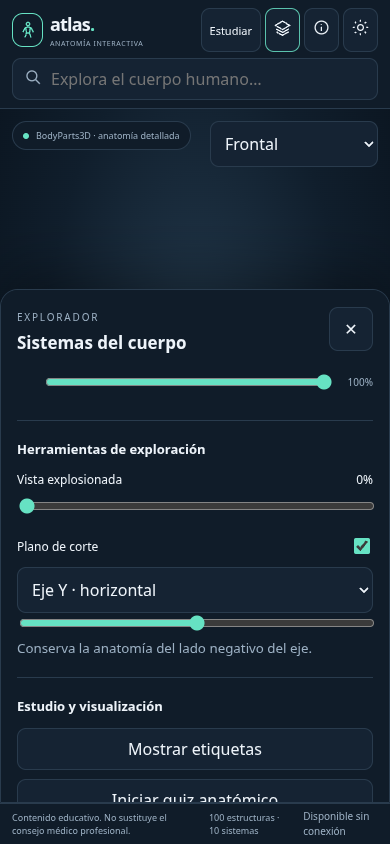
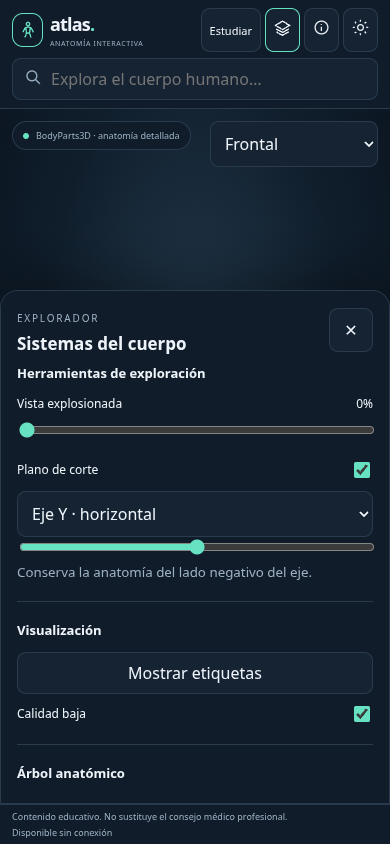
Organizar exploración 3D, estudio y progreso en menús separados

diff --git a/sw.js b/sw.js
@@ -1,5 +1,5 @@
-const VERSION="ba8b62351e1e1b27";
-const ARCHIVOS=["./assets/atlas-mesh.bin", "./assets/icons/atlas-180.png", "./assets/icons/atlas-192.png", "./assets/icons/atlas-512.png", "./assets/icons/atlas.svg", "./css/base.css", "./css/estudio-extra.css", "./css/estudio.css", "./css/layout.css", "./css/movil.css", "./css/paneles.css", "./css/responsive.css", "./css/temas.css", "./css/visor.css", "./data/autoevaluacion.json", "./data/banco-urinario.json", "./data/catalogo.json", "./data/epitelios.json", "./data/fuente.json", "./data/mesh-manifest.json", "./data/modelos.json", "./data/observaciones.json", "./data/orden-urinario.json", "./data/regiones.json", "./data/secciones.json", "./data/sistemas.json", "./index.html", "./js/core/almacenamiento.js", "./js/core/aplicacion.js", "./js/core/camara.js", "./js/core/datos.js", "./js/core/escena.js", "./js/core/estado.js", "./js/core/eventos.js", "./js/core/imagenes-db.js", "./js/core/pwa.js", "./js/core/recursos.js", "./js/core/render.js", "./js/estudio/auto.js", "./js/estudio/bancos.js", "./js/estudio/comparar.js", "./js/estudio/epitelios.js", "./js/estudio/errores.js", "./js/estudio/esquemas-svg.js", "./js/estudio/estadisticas.js", "./js/estudio/examen.js", "./js/estudio/extra-store.js", "./js/estudio/filtros.js", "./js/estudio/fisiologia.js", "./js/estudio/flash.js", "./js/estudio/herramientas.js", "./js/estudio/histologia.js", "./js/estudio/importador.js", "./js/estudio/inicio.js", "./js/estudio/intercambio.js", "./js/estudio/leitner.js", "./js/estudio/motor-preguntas.js", "./js/estudio/nefrona.js", "./js/estudio/notas.js", "./js/estudio/oclusion.js", "./js/estudio/panel.js", "./js/estudio/practico.js", "./js/estudio/progreso.js", "./js/estudio/quiz.js", "./js/estudio/ruta.js", "./js/estudio/sesiones.js", "./js/estudio/sm2.js", "./js/estudio/transferencias.js", "./js/main.js", "./js/modelo/detalle-urinario.js", "./js/modelo/fisiologia.js", "./js/modelo/integradas.js", "./js/modelo/loader-gltf.js", "./js/modelo/loader-mallas.js", "./js/modelo/materiales.js", "./js/modelo/partes.js", "./js/modelo/primitivas.js", "./js/modelo/procedural.js", "./js/modelo/recorrido.js", "./js/modelo/sistemas/circulatorio-base.js", "./js/modelo/sistemas/digestivo-base.js", "./js/modelo/sistemas/endocrino-base.js", "./js/modelo/sistemas/esqueletico-base.js", "./js/modelo/sistemas/linfatico-base.js", "./js/modelo/sistemas/muscular-base.js", "./js/modelo/sistemas/nervioso-base.js", "./js/modelo/sistemas/piel-base.js", "./js/modelo/sistemas/respiratorio-base.js", "./js/modelo/sistemas/urinario-base.js", "./js/modelo/sistemas/urinario.js", "./js/plugins/registro.js", "./js/ui/arbol.js", "./js/ui/avisos.js", "./js/ui/buscador.js", "./js/ui/capas.js", "./js/ui/controles.js", "./js/ui/etiquetas.js", "./js/ui/informacion.js", "./js/ui/paneles.js", "./js/ui/punteros.js", "./js/ui/quiz-anatomico.js", "./js/ui/seleccion.js", "./js/ui/tema.js", "./manifest.webmanifest", "./vendor/three/LICENSE", "./vendor/three/VERSION", "./vendor/three/build/three.core.js", "./vendor/three/build/three.module.js", "./vendor/three/examples/jsm/controls/OrbitControls.js", "./vendor/three/examples/jsm/loaders/GLTFLoader.js", "./vendor/three/examples/jsm/postprocessing/EffectComposer.js", "./vendor/three/examples/jsm/postprocessing/MaskPass.js", "./vendor/three/examples/jsm/postprocessing/OutlinePass.js", "./vendor/three/examples/jsm/postprocessing/OutputPass.js", "./vendor/three/examples/jsm/postprocessing/Pass.js", "./vendor/three/examples/jsm/postprocessing/RenderPass.js", "./vendor/three/examples/jsm/postprocessing/ShaderPass.js", "./vendor/three/examples/jsm/shaders/CopyShader.js", "./vendor/three/examples/jsm/shaders/OutputShader.js", "./vendor/three/examples/jsm/utils/BufferGeometryUtils.js"];
+const VERSION="70ac634f56610410";
+const ARCHIVOS=["./assets/atlas-mesh.bin", "./assets/icons/atlas-180.png", "./assets/icons/atlas-192.png", "./assets/icons/atlas-512.png", "./assets/icons/atlas.svg", "./css/base.css", "./css/estudio-extra.css", "./css/estudio.css", "./css/layout.css", "./css/movil.css", "./css/paneles.css", "./css/responsive.css", "./css/temas.css", "./css/visor.css", "./data/autoevaluacion.json", "./data/banco-urinario.json", "./data/catalogo.json", "./data/epitelios.json", "./data/fuente.json", "./data/mesh-manifest.json", "./data/modelos.json", "./data/observaciones.json", "./data/orden-urinario.json", "./data/regiones.json", "./data/secciones.json", "./data/sistemas.json", "./index.html", "./js/core/almacenamiento.js", "./js/core/aplicacion.js", "./js/core/camara.js", "./js/core/datos.js", "./js/core/escena.js", "./js/core/estado.js", "./js/core/eventos.js", "./js/core/imagenes-db.js", "./js/core/pwa.js", "./js/core/recursos.js", "./js/core/render.js", "./js/estudio/auto.js", "./js/estudio/bancos.js", "./js/estudio/comparar.js", "./js/estudio/epitelios.js", "./js/estudio/errores.js", "./js/estudio/esquemas-svg.js", "./js/estudio/estadisticas.js", "./js/estudio/examen.js", "./js/estudio/extra-store.js", "./js/estudio/filtros.js", "./js/estudio/fisiologia.js", "./js/estudio/flash.js", "./js/estudio/herramientas.js", "./js/estudio/histologia.js", "./js/estudio/importador.js", "./js/estudio/inicio.js", "./js/estudio/intercambio.js", "./js/estudio/leitner.js", "./js/estudio/menu.js", "./js/estudio/motor-preguntas.js", "./js/estudio/nefrona.js", "./js/estudio/notas.js", "./js/estudio/oclusion.js", "./js/estudio/panel.js", "./js/estudio/practico.js", "./js/estudio/progreso.js", "./js/estudio/quiz.js", "./js/estudio/ruta.js", "./js/estudio/sesiones.js", "./js/estudio/sm2.js", "./js/estudio/transferencias.js", "./js/main.js", "./js/modelo/detalle-urinario.js", "./js/modelo/fisiologia.js", "./js/modelo/integradas.js", "./js/modelo/loader-gltf.js", "./js/modelo/loader-mallas.js", "./js/modelo/materiales.js", "./js/modelo/partes.js", "./js/modelo/primitivas.js", "./js/modelo/procedural.js", "./js/modelo/recorrido.js", "./js/modelo/sistemas/circulatorio-base.js", "./js/modelo/sistemas/digestivo-base.js", "./js/modelo/sistemas/endocrino-base.js", "./js/modelo/sistemas/esqueletico-base.js", "./js/modelo/sistemas/linfatico-base.js", "./js/modelo/sistemas/muscular-base.js", "./js/modelo/sistemas/nervioso-base.js", "./js/modelo/sistemas/piel-base.js", "./js/modelo/sistemas/respiratorio-base.js", "./js/modelo/sistemas/urinario-base.js", "./js/modelo/sistemas/urinario.js", "./js/plugins/registro.js", "./js/ui/arbol.js", "./js/ui/avisos.js", "./js/ui/buscador.js", "./js/ui/capas.js", "./js/ui/controles.js", "./js/ui/etiquetas.js", "./js/ui/informacion.js", "./js/ui/paneles.js", "./js/ui/punteros.js", "./js/ui/quiz-anatomico.js", "./js/ui/seleccion.js", "./js/ui/tema.js", "./manifest.webmanifest", "./vendor/three/LICENSE", "./vendor/three/VERSION", "./vendor/three/build/three.core.js", "./vendor/three/build/three.module.js", "./vendor/three/examples/jsm/controls/OrbitControls.js", "./vendor/three/examples/jsm/loaders/GLTFLoader.js", "./vendor/three/examples/jsm/postprocessing/EffectComposer.js", "./vendor/three/examples/jsm/postprocessing/MaskPass.js", "./vendor/three/examples/jsm/postprocessing/OutlinePass.js", "./vendor/three/examples/jsm/postprocessing/OutputPass.js", "./vendor/three/examples/jsm/postprocessing/Pass.js", "./vendor/three/examples/jsm/postprocessing/RenderPass.js", "./vendor/three/examples/jsm/postprocessing/ShaderPass.js", "./vendor/three/examples/jsm/shaders/CopyShader.js", "./vendor/three/examples/jsm/shaders/OutputShader.js", "./vendor/three/examples/jsm/utils/BufferGeometryUtils.js"];
 
 const PREFIJO='atlas-'+new URL(self.registration.scope).pathname+'-',CACHE=PREFIJO+VERSION;
 self.addEventListener('install',event=>event.waitUntil((async()=>{const cache=await caches.open(CACHE);await cache.addAll(ARCHIVOS);})()));

diff --git a/js/estudio/panel.js b/js/estudio/panel.js
@@ -1,3 +1,4 @@
+import {areas, areaDeModo, montarMenu} from "./menu.js";
 import * as registro from "../plugins/registro.js";
 import {inicio as extraido_inicio} from './inicio.js';
 import {configurarQuiz as extraido_configurarQuiz} from './quiz.js';
@@ -31,6 +32,9 @@ import {dibujoEpitelio as extraido_dibujoEpitelio} from './esquemas-svg.js';
 // Funciones extraídas con referencias explícitas al contexto compartido.
 export function iniciarEstudio(contextoModulo) {
 const contextoCompartido={
+  get area(){return area;},
+  montarMenu(){montarMenu(contextoCompartido,registro);},
+  cerrarPanel(){cerrar();},
   get titulo(){return titulo;},set titulo(v){titulo=v;},
   get contenido(){return contenido;},set contenido(v){contenido=v;},
   get mensaje(){return mensaje;},set mensaje(v){mensaje=v;},
@@ -92,29 +96,34 @@ const contextoCompartido={
         let progreso={tarjetas:{},errores:{},autoevaluacion:{},sesiones:[]},persistente=true;
         try{const x=JSON.parse(localStorage.getItem(clave)||"null");if(x&&typeof x==="object")for(const k of ["tarjetas","errores","autoevaluacion"])if(x[k]&&typeof x[k]==="object"&&!Array.isArray(x[k]))progreso[k]=x[k];if(Array.isArray(x?.sesiones))progreso.sesiones=x.sesiones.slice(-50);}catch{persistente=false;}
         function guardar(...args){return extraido_guardar(contextoCompartido,...args);}
+        let area="estudio";
         let modo="inicio",sesion=null,cronometro=null,flash=null,svgActivo=null,animacionSVG=null;
         let filtroSeccion="todas",filtroDificultad="todas",soloErrores=false;
         const panelEst=nodo("section",null,{id:"study-panel",class:"study-panel","aria-label":"Estudiar aparato urinario"});panelEst.hidden=true;
-        const cab=nodo("div",null,{class:"study-header"});cab.append(nodo("h2","Estudiar"),boton("Cerrar",cerrar,{"aria-label":"Cerrar panel Estudiar"}));
-        const navegacion=nodo("nav",null,{class:"study-nav","aria-label":"Modos de estudio"}),contenido=nodo("div",null,{class:"study-body",id:"study-content",tabindex:"-1"});
+        const cab=nodo("div",null,{class:"study-header"});cab.append(nodo("h2","Atlas · aprender"),boton("Cerrar",cerrar,{"aria-label":"Cerrar panel Estudiar"}));
+        const navegacion=nodo("nav",null,{class:"study-nav","aria-label":"Apartados del atlas"}),contenido=nodo("div",null,{class:"study-body",id:"study-content",tabindex:"-1"});
         panelEst.append(cab,navegacion,contenido);document.querySelector("main").append(panelEst);
         const abrir=boton("Estudiar",()=>{if(contextoModulo.vistaMovil.matches){contextoModulo.estadoPanel("left",false);contextoModulo.estadoPanel("right",false);}panelEst.hidden=false;abrir.setAttribute("aria-expanded","true");if(contextoModulo.estado.quiz.activo)contextoModulo.terminarQuiz();if(svgActivo)svgActivo.unpauseAnimations?.();registro[modo]?.reanudar?.();contenido.focus({preventScroll:true});},{id:"study-open","aria-expanded":"false","aria-controls":"study-panel"});
         document.querySelector(".header-actions").prepend(abrir);
-        const orden=["inicio","quiz","flash","ruta","nefrona","histologia","epitelios","comparar","auto","examen","errores","estadisticas","transferencias","importador","notas","oclusion","practico","herramientas","fisiologia"];
-        const prioridad=id=>orden.includes(id)?orden.indexOf(id):orden.length;
-        const tabs=Object.values(registro).sort((a,b)=>prioridad(a.id)-prioridad(b.id)).map(p=>[p.id,p.titulo]);
-        tabs.forEach(([id,label])=>navegacion.append(boton(label,()=>cambiarModo(id),{"data-mode":id,"aria-pressed":"false"})));
+        const volver=boton("← Volver al menú",()=>cambiarModo("inicio"),{class:"study-back"});
+        volver.hidden=true;panelEst.insertBefore(volver,contenido);
+        for(const [id,datos] of Object.entries(areas))navegacion.append(boton(datos.titulo,()=>cambiarModo("inicio",id),{"data-area":id,"aria-pressed":String(id===area)}));
+        function sincronizarMenu(){
+          navegacion.querySelectorAll("[data-area]").forEach(b=>b.setAttribute("aria-pressed",String(b.dataset.area===area)));
+          volver.hidden=modo==="inicio";
+          panelEst.dataset.activeMode=modo;
+        }
         function cerrar({devolverFoco=true}={}){registro[modo]?.pausar?.();panelEst.hidden=true;abrir.setAttribute("aria-expanded","false");svgActivo?.pauseAnimations?.();if(contextoModulo.urinario.flujo){contextoModulo.urinario.pausa=true;if(contextoModulo.$("urine-play"))contextoModulo.$("urine-play").textContent="Continuar";}contextoModulo.solicitarRender();if(devolverFoco)abrir.focus({preventScroll:true});}
-        function cambiarModo(nuevo){
+        function cambiarModo(nuevo,nuevaArea){
           if(sesion&&!sesion.terminada){finalizarSesion("Sesión interrumpida al cambiar de modo");return;}
           if(modo==="flash"&&flash?.vistas){resumenFlash();return;}
           svgActivo?.pauseAnimations?.();svgActivo=null;animacionSVG=null;
           if(modo==="ruta"){contextoModulo.urinario.flujo=false;contextoModulo.particulasOrina.visible=false;contextoModulo.urinario.callback=null;contextoModulo.solicitarRender();}
           if(modo==="comparar"){contextoModulo.urinario.comparar=false;contextoModulo.aplicarEstado();}
           registro[modo]?.desmontar();
-          modo=nuevo;limpiar(contenido);navegacion.querySelectorAll("button").forEach(b=>b.setAttribute("aria-pressed",String(b.dataset.mode===modo)));
+          modo=nuevo;area=nuevaArea||areaDeModo(nuevo)||area;limpiar(contenido);sincronizarMenu();
           registro[modo].montar(contextoCompartido);
-          contenido.scrollTop=0;
+          contenido.scrollTop=0;contenido.focus({preventScroll:true});
         }
         function faltaBanco(){if(contextoModulo.BANCO.length)return false;contenido.append(mensaje("Pendiente del DOCX: este modo necesita las preguntas y respuestas exactas de Cuestionario_Aparato_Urinario_Laboratorio_11.docx. No se han creado preguntas de sustitución.","study-alert"));return true;}
         function titulo(texto){contenido.append(nodo("h3",texto));}

diff --git a/js/estudio/menu.js b/js/estudio/menu.js
@@ -1,0 +1,57 @@
+// Navegación por objetivos: las actividades conservan sus propios ciclos de vida.
+export const areas={
+ exploracion:{titulo:'Explorar 3D',descripcion:'Observa las estructuras y comprende cómo se relacionan.',grupos:[
+  ['Anatomía en movimiento',['ruta','fisiologia','comparar']],
+  ['Herramientas del visor',['herramientas']]]},
+ estudio:{titulo:'Estudiar',descripcion:'Elige cómo quieres practicar hoy. Una actividad a la vez.',grupos:[
+  ['Practicar y recordar',['quiz','flash','anatomico']],
+  ['Preparar el examen',['examen','practico']],
+  ['Histología y esquemas',['nefrona','histologia','epitelios','oclusion']]]},
+ progreso:{titulo:'Mi progreso',descripcion:'Revisa tus resultados y organiza tu material personal.',grupos:[
+  ['Mi aprendizaje',['estadisticas','errores','auto']],
+  ['Mi material',['notas','importador','transferencias']]]}
+};
+const descripciones={
+ quiz:'Preguntas del banco con retroalimentación.',flash:'Tarjetas con repetición espaciada.',
+ anatomico:'Reconoce las partes señaladas en el cuerpo 3D.',examen:'Simulacro cronometrado con resultados al terminar.',
+ practico:'Escribe el nombre de la estructura marcada en 3D.',nefrona:'Explora sus partes y procesos en un esquema interactivo.',
+ histologia:'Compara tejidos y practica su identificación.',epitelios:'Consulta la tabla o tapa las respuestas para repasar.',
+ oclusion:'Estudia tus láminas ocultando sus etiquetas.',ruta:'Sigue paso a paso el trayecto de la orina.',
+ fisiologia:'Observa el movimiento del uréter y la vejiga.',comparar:'Compara la anatomía masculina y femenina.',
+ herramientas:'Enfoque, pantalla completa y lectura en voz alta.',estadisticas:'Consulta tus aciertos, racha y metas.',
+ errores:'Refuerza las preguntas que necesitan más repaso.',auto:'Comprueba qué temas ya dominas.',
+ notas:'Tus apuntes, pistas y estructuras para repasar.',importador:'Añade preguntas de otros laboratorios.',
+ transferencias:'Guarda o recupera tus bancos y tu progreso.'
+};
+export function areaDeModo(id){return Object.keys(areas).find(a=>areas[a].grupos.some(([,ids])=>ids.includes(id)));}
+export function montarMenu(ctx,registro){
+ const {nodo,boton,contenido}=ctx,area=areas[ctx.area];
+ const intro=nodo('div',null,{class:'study-menu-intro'});
+ intro.append(nodo('span','TU ESPACIO DE APRENDIZAJE',{class:'study-eyebrow'}),nodo('h3',area.titulo),nodo('p',area.descripcion));contenido.append(intro);
+ if(ctx.area==='exploracion')acciones3D(ctx);
+ for(const [titulo,ids] of area.grupos){
+  const seccion=nodo('section',null,{class:'study-menu-group'});seccion.append(nodo('h4',titulo));
+  const grid=nodo('div',null,{class:'study-menu-grid'});
+  for(const id of ids){
+   const nombre=id==='anatomico'?'Quiz anatómico':registro[id]?.titulo;
+   if(!nombre)continue;
+   const tarjeta=boton(null,()=>{
+    if(id==='anatomico'){
+     ctx.cerrarPanel();ctx.contextoModulo.$('quiz-toggle').click();
+     ctx.contextoModulo.$('quiz-options')?.querySelector('button')?.focus({preventScroll:true});
+    }else ctx.cambiarModo(id);
+   },{class:'study-menu-card','data-mode':id});
+   tarjeta.append(nodo('strong',nombre),nodo('span',descripciones[id]),nodo('span','Abrir →',{class:'study-card-link','aria-hidden':'true'}));grid.append(tarjeta);
+  }
+  seccion.append(grid);contenido.append(seccion);
+ }
+ // Los plugins añadidos al registro siguen siendo accesibles sin editar el menú.
+ const otros=Object.values(registro).filter(p=>p.id!=='inicio'&&!areaDeModo(p.id));
+ if(ctx.area==='estudio'&&otros.length){const grupo=nodo('section',null,{class:'study-menu-group'});grupo.append(nodo('h4','Más actividades'));for(const p of otros)grupo.append(boton(p.titulo,()=>ctx.cambiarModo(p.id),{'data-mode':p.id}));contenido.append(grupo);}
+}
+function acciones3D(contextoModulo){
+          const acciones=contextoModulo.nodo("div",null,{class:"study-flex"});acciones.append(contextoModulo.boton("Explorar aparato urinario",()=>contextoModulo.contextoModulo.estudiarUrinario()),contextoModulo.boton("Ver interior del riñón",()=>{contextoModulo.contextoModulo.estudiarUrinario();contextoModulo.contextoModulo.seleccionar("rinon_derecho");const c=contextoModulo.contextoModulo.puntoParte("rinon_derecho");contextoModulo.contextoModulo.$("clip-enabled").checked=true;contextoModulo.contextoModulo.$("clip-axis").value="z";contextoModulo.contextoModulo.$("clip-position").value=100*(c.z-(contextoModulo.contextoModulo.cajaCuerpo.min.z-.1))/(contextoModulo.contextoModulo.cajaCuerpo.max.z-contextoModulo.contextoModulo.cajaCuerpo.min.z+.2);contextoModulo.contextoModulo.actualizarCorte();}),contextoModulo.boton("Volver al cuerpo completo",()=>{contextoModulo.contextoModulo.urinario.solo=false;contextoModulo.contextoModulo.urinario.comparar=false;contextoModulo.contextoModulo.restaurar();contextoModulo.contextoModulo.vista("front");}));contextoModulo.contenido.append(acciones);
+
+          acciones.className="study-explore-actions";
+          acciones.querySelectorAll("button").forEach(b=>b.addEventListener("click",()=>contextoModulo.cerrarPanel()));
+}

diff --git a/js/estudio/inicio.js b/js/estudio/inicio.js
@@ -1,10 +1,8 @@
 // Funciones extraídas con referencias explícitas al contexto compartido.
 export function inicio(contextoModulo){
-          contextoModulo.titulo("Aparato urinario · laboratorio 11");
+          contextoModulo.montarMenu();
           contextoModulo.contenido.append(contextoModulo.mensaje(contextoModulo.contextoModulo.FUENTE_DOCX?"Fuente: "+contextoModulo.contextoModulo.FUENTE_DOCX:"Falta adjuntar el DOCX para completar el banco y la autoevaluación.",contextoModulo.contextoModulo.FUENTE_DOCX?"study-status":"study-alert"));
           contextoModulo.contenido.append(contextoModulo.mensaje(contextoModulo.contextoModulo.BANCO.length+" preguntas del documento · 7 secciones · progreso local"));
-          const acciones=contextoModulo.nodo("div",null,{class:"study-flex"});acciones.append(contextoModulo.boton("Explorar aparato urinario",()=>contextoModulo.contextoModulo.estudiarUrinario()),contextoModulo.boton("Ver interior del riñón",()=>{contextoModulo.contextoModulo.estudiarUrinario();contextoModulo.contextoModulo.seleccionar("rinon_derecho");const c=contextoModulo.contextoModulo.puntoParte("rinon_derecho");contextoModulo.contextoModulo.$("clip-enabled").checked=true;contextoModulo.contextoModulo.$("clip-axis").value="z";contextoModulo.contextoModulo.$("clip-position").value=100*(c.z-(contextoModulo.contextoModulo.cajaCuerpo.min.z-.1))/(contextoModulo.contextoModulo.cajaCuerpo.max.z-contextoModulo.contextoModulo.cajaCuerpo.min.z+.2);contextoModulo.contextoModulo.actualizarCorte();}),contextoModulo.boton("Volver al cuerpo completo",()=>{contextoModulo.contextoModulo.urinario.solo=false;contextoModulo.contextoModulo.urinario.comparar=false;contextoModulo.contextoModulo.restaurar();contextoModulo.contextoModulo.vista("front");}));contextoModulo.contenido.append(acciones);
-          contextoModulo.contenido.append(contextoModulo.nodo("p","Explora el riñón en corte, sigue el recorrido de la orina y compara los epitelios. Los esquemas complementarios están identificados como representaciones didácticas."));
           const card=contextoModulo.nodo("div",null,{class:"study-card"});card.append(contextoModulo.nodo("strong","Atajos de estudio"),contextoModulo.nodo("p","1–4: elegir opción · Enter: siguiente · Espacio: voltear flashcard · Esc: cerrar Estudiar."));contextoModulo.contenido.append(card);
           if(contextoModulo.contextoModulo.OBSERVACIONES_DOCX.length){const notas=contextoModulo.nodo("details",null,{class:"study-card"});notas.append(contextoModulo.nodo("summary","Notas sobre la fuente y los esquemas"));contextoModulo.contextoModulo.OBSERVACIONES_DOCX.forEach(t=>notas.append(contextoModulo.nodo("p",t)));contextoModulo.contenido.append(notas);}
           if(!contextoModulo.persistente)contextoModulo.contenido.append(contextoModulo.mensaje("El navegador no permite guardar el progreso. Puedes estudiar durante esta sesión.","study-alert"));

diff --git a/css/estudio-extra.css b/css/estudio-extra.css
@@ -12,3 +12,35 @@
 #salir-enfoque {position:fixed;right:12px;top:125px;z-index:80;box-shadow:var(--shadow);min-height:44px;}
 .pwa-status {font-size:10px;margin-left:auto;}
 @media(max-width:850px){footer{flex-wrap:wrap;gap:2px;}footer>span:nth-child(2){display:none;}footer .pwa-status{flex-basis:100%;margin-left:0;font-size:9px;}}
+
+/* Tres destinos estables sustituyen la fila de modos con desplazamiento lateral. */
+.study-panel{width:min(580px,100%);}
+.study-nav{display:grid;grid-template-columns:repeat(3,minmax(0,1fr));gap:6px;overflow:visible;touch-action:auto;padding:12px 16px;}
+.study-nav button{white-space:normal;min-height:44px;font-size:12px;padding:9px 5px;}
+.study-back{align-self:flex-start;margin:10px 18px 0;min-height:40px;font-size:12px;flex-shrink:0;}
+.study-menu-intro{margin:6px 0 24px;}
+.study-eyebrow{display:block;color:var(--muted);font-size:10px;letter-spacing:1.5px;margin-bottom:8px;}
+.study-menu-intro h3{font-size:25px;line-height:1.2;margin:0 0 10px;}
+.study-menu-intro p{color:var(--muted);margin:0;}
+.study-menu-group{margin:0 0 26px;}
+.study-menu-group h4{font-size:12px;margin:0 0 10px;color:var(--muted);font-weight:600;}
+.study-menu-grid{display:grid;grid-template-columns:repeat(2,minmax(0,1fr));gap:12px;}
+.study-menu-card{display:flex;flex-direction:column;text-align:left;gap:8px;padding:16px;min-width:0;line-height:1.5;border-radius:12px;}
+.study-menu-card strong{font-size:14px;}
+.study-menu-card>span{font-size:12px;color:var(--muted);}
+.study-menu-card .study-card-link{color:var(--accent);font-weight:600;font-size:11px;margin-top:auto;padding-top:5px;}
+.study-explore-actions{display:grid;gap:8px;margin-bottom:26px;}
+.study-explore-actions button{text-align:left;min-height:44px;}
+@media(max-width:850px){
+ .study-panel{width:100%;}
+ .study-nav{padding:10px 12px;}
+ .study-menu-grid{gap:10px;}
+ .study-menu-card{padding:12px;}
+ .study-back{margin:8px 15px 0;}
+ .study-panel.study-practico .study-back{margin-top:4px;min-height:36px;}
+}
+@media(max-width:360px){.study-menu-grid{grid-template-columns:1fr;}.study-header h2{font-size:15px;}}
+
+@media(max-width:850px) and (min-height:501px){
+ .study-panel[data-active-mode="ruta"],.study-panel[data-active-mode="comparar"],.study-panel[data-active-mode="fisiologia"]{height:52%;}
+}

diff --git a/index.html b/index.html
@@ -112,10 +112,10 @@
           </section>
 
           <section class="panel-section">
-            <h3>Estudio y visualización</h3>
+            <h3>Visualización</h3>
             <div class="stack">
               <button id="labels-toggle" aria-pressed="false">Mostrar etiquetas</button>
-              <button id="quiz-toggle" aria-pressed="false">Iniciar quiz anatómico</button>
+              <button id="quiz-toggle" hidden aria-pressed="false">Iniciar quiz anatómico</button>
               <label class="row" style="font-size:12px">
                 <span>Calidad baja</span><input id="low-quality" type="checkbox" style="flex:0 0 16px;width:16px;height:16px">
               </label>

diff --git a/pruebas/offline.py b/pruebas/offline.py
@@ -1,3 +1,4 @@
+from navegacion import abrir_modo
 import os
 URL=os.environ.get("ATLAS_TEST_URL","http://127.0.0.1:8000/atlas/")
 from pathlib import Path
@@ -11,8 +12,8 @@ with sync_playwright() as p:
  q=c.new_page();q.on('pageerror',lambda e:(errores.append(str(e)),print('JS',e,flush=True)));q.goto(URL);q.wait_for_function("document.getElementById('loading').hidden",timeout=70000)
  q.evaluate('navigator.serviceWorker.ready');q.wait_for_function('navigator.serviceWorker.controller!==null',timeout=60000)
  cache=q.evaluate("caches.keys().then(async keys=>({keys,archivos:(await (await caches.open(keys[0])).keys()).length}))");print('Caché:',cache,flush=True)
- c.set_offline(True);q.reload(wait_until='domcontentloaded');q.wait_for_function("document.getElementById('loading').hidden",timeout=70000);assert 'BodyParts3D' in q.locator('#model-status').inner_text();q.locator('#study-open').click();q.locator('[data-mode="nefrona"]').click();assert q.locator('#study-content svg').count();print('Recarga móvil sin red + mallas + nefrona: OK',flush=True);c.close()
+ c.set_offline(True);q.reload(wait_until='domcontentloaded');q.wait_for_function("document.getElementById('loading').hidden",timeout=70000);assert 'BodyParts3D' in q.locator('#model-status').inner_text();q.locator('#study-open').click();abrir_modo(q,"nefrona");assert q.locator('#study-content svg').count();print('Recarga móvil sin red + mallas + nefrona: OK',flush=True);c.close()
  c=b.new_context(viewport={'width':1000,'height':800},service_workers='block');c.route('https://fonts.googleapis.com/**',lambda r:r.fulfill(status=200,body='',content_type='text/css'));c.route('**/favicon.ico',lambda r:r.fulfill(status=204,body=''));c.add_init_script("Object.defineProperty(window,'localStorage',{get(){throw new DOMException('Bloqueado','SecurityError')}});Object.defineProperty(window,'indexedDB',{get(){throw new DOMException('Bloqueado','SecurityError')}});")
- q=c.new_page();q.on('pageerror',lambda e:(errores.append(str(e)),print('JS',e,flush=True)));q.goto(URL);q.wait_for_function("document.getElementById('loading').hidden",timeout=70000);q.locator('#study-open').click();q.locator('[data-mode="notas"]').click();q.get_by_label('Notas personales',exact=True).fill('Nota temporal');assert 'No se pudo guardar' in q.locator('#study-content').inner_text();q.locator('[data-mode="oclusion"]').click();q.wait_for_timeout(200);assert 'memoria temporal' in q.locator('#study-content').inner_text();print('Almacenamiento bloqueado: uso en memoria y avisos OK',flush=True);c.close();b.close()
+ q=c.new_page();q.on('pageerror',lambda e:(errores.append(str(e)),print('JS',e,flush=True)));q.goto(URL);q.wait_for_function("document.getElementById('loading').hidden",timeout=70000);q.locator('#study-open').click();abrir_modo(q,"notas");q.get_by_label('Notas personales',exact=True).fill('Nota temporal');assert 'No se pudo guardar' in q.locator('#study-content').inner_text();abrir_modo(q,"oclusion");q.wait_for_timeout(200);assert 'memoria temporal' in q.locator('#study-content').inner_text();print('Almacenamiento bloqueado: uso en memoria y avisos OK',flush=True);c.close();b.close()
 assert not errores,errores
 (out/'offline.json').write_text(json.dumps({'cache':cache,'offline':'OK','almacenamiento_bloqueado':'OK','errores':errores},ensure_ascii=False,indent=2))

diff --git a/pruebas/menu.py b/pruebas/menu.py
@@ -1,0 +1,40 @@
+import os
+from pathlib import Path
+from playwright.sync_api import sync_playwright
+URL=os.environ.get('ATLAS_TEST_URL','http://127.0.0.1:8000/atlas/')
+out=Path(__file__).resolve().parent/'resultados'
+out.mkdir(exist_ok=True)
+with sync_playwright() as p:
+ b=p.chromium.launch(executable_path='/usr/bin/chromium',headless=True,args=['--no-sandbox','--use-angle=swiftshader','--enable-unsafe-swiftshader'])
+ for width in [1440,390,320]:
+  c=b.new_context(viewport={'width':width,'height':900 if width>850 else 844},is_mobile=width<850,has_touch=width<850)
+  c.route('https://fonts.googleapis.com/**',lambda r:r.fulfill(status=200,body='',content_type='text/css'))
+  q=c.new_page();errors=[];q.on('pageerror',lambda e:errors.append(str(e)))
+  q.goto(URL);q.wait_for_function("document.getElementById('loading').hidden",timeout=90000)
+  q.locator('#study-open').click()
+  assert q.locator('[data-mode=quiz]').is_visible()
+  q.screenshot(path=str(out/f'menu-{width}.png'))
+  for area,ids in [('estudio',['quiz','flash','examen','practico','nefrona','histologia','epitelios','oclusion']),('exploracion',['ruta','fisiologia','comparar','herramientas']),('progreso',['estadisticas','errores','auto','notas','importador','transferencias'])]:
+   q.locator(f'[data-area={area}]').click()
+   for id in ids:
+    q.locator(f'[data-mode={id}]').click()
+    assert q.locator('.study-back').is_visible()
+    assert q.locator('#study-content').inner_text().strip()
+    q.locator('.study-back').click()
+    assert q.locator(f'[data-mode={id}]').is_visible()
+   assert q.evaluate('document.documentElement.scrollWidth<=innerWidth')
+  q.locator('[data-area=estudio]').click();q.locator('[data-mode=anatomico]').click()
+  assert q.locator('#study-panel').is_hidden()
+  assert q.locator('#quiz-options button').count()==4
+  q.locator('#quiz-options button').first.click();q.locator('#quiz-exit').click()
+  q.locator('#study-open').click();q.locator('[data-mode=quiz]').click();q.get_by_role('button',name='Comenzar',exact=True).click()
+  q.locator('[data-area=exploracion]').click()
+  assert 'Sesión interrumpida' in q.locator('#study-content').inner_text()
+  q.locator('[data-area=exploracion]').click();q.get_by_role('button',name='Ver interior del riñón',exact=True).click()
+  assert q.locator('#study-panel').is_hidden();assert q.locator('#clip-enabled').is_checked()
+  q.locator('#study-open').click();q.locator('[data-area=estudio]').click()
+  q.locator('#theme').click();q.screenshot(path=str(out/f'menu-claro-{width}.png'))
+  assert not errors,errors
+  print(width,'OK: 18 modos, quiz anatómico, navegación con sesión, corte renal y temas',flush=True)
+  c.close()
+ b.close()

diff --git a/pruebas/regresion.py b/pruebas/regresion.py
@@ -1,3 +1,4 @@
+from navegacion import abrir_modo
 import os
 URL=os.environ.get("ATLAS_TEST_URL","http://127.0.0.1:8000/atlas/")
 from pathlib import Path
@@ -36,11 +37,10 @@ with sync_playwright() as p:
   if mobile:q.locator('[data-close="left"]').click()
   q.locator('#restore').click()
   if mobile:q.locator('#toggle-left').click();q.wait_for_timeout(300)
-  q.locator('#quiz-toggle').click()
-  if mobile:q.locator('[data-close="left"]').click()
+  q.locator('#study-open').click();abrir_modo(q,"anatomico")
   assert q.locator('#quiz-options button').count()==4;q.locator('#quiz-options button').first.click();assert q.locator('#quiz-feedback').inner_text();q.locator('#quiz-exit').click()
-  q.locator('#study-open').click();q.locator('[data-mode="quiz"]').click();q.get_by_role('button',name='Comenzar',exact=True).click();q.wait_for_timeout(150);responder_banco(q);assert 'Respuesta del documento' in q.locator('#study-feedback').inner_text();q.get_by_role('button',name='Finalizar sesión',exact=True).click()
-  q.locator('[data-mode="flash"]').click();q.get_by_role('button',name='Estudiar tarjetas pendientes',exact=True).click();q.locator('#study-flash').click();assert q.locator('#flash-yes').is_enabled();q.locator('#flash-yes').click();q.get_by_role('button',name='Terminar',exact=True).click()
+  q.locator('#study-open').click();abrir_modo(q,"quiz");q.get_by_role('button',name='Comenzar',exact=True).click();q.wait_for_timeout(150);responder_banco(q);assert 'Respuesta del documento' in q.locator('#study-feedback').inner_text();q.get_by_role('button',name='Finalizar sesión',exact=True).click()
+  abrir_modo(q,"flash");q.get_by_role('button',name='Estudiar tarjetas pendientes',exact=True).click();q.locator('#study-flash').click();assert q.locator('#flash-yes').is_enabled();q.locator('#flash-yes').click();q.get_by_role('button',name='Terminar',exact=True).click()
   q.get_by_role('button',name='Cerrar panel Estudiar').click()
   q.locator('#theme').click();assert q.evaluate('document.documentElement.dataset.theme')=='light';q.locator('#theme').click();assert q.evaluate('document.documentElement.dataset.theme')=='dark'
   assert q.evaluate('document.documentElement.scrollWidth<=innerWidth')

diff --git a/pruebas/movil.py b/pruebas/movil.py
@@ -1,3 +1,4 @@
+from navegacion import abrir_modo
 import os
 URL=os.environ.get("ATLAS_TEST_URL","http://127.0.0.1:8000/atlas/")
 from pathlib import Path
@@ -7,7 +8,7 @@ out=Path(__file__).resolve().parent/'resultados';out.mkdir(exist_ok=True);errors
 with sync_playwright() as p:
  b=p.chromium.launch(executable_path='/usr/bin/chromium',args=['--no-sandbox','--use-angle=swiftshader','--enable-unsafe-swiftshader']);c=b.new_context(viewport={'width':390,'height':844},is_mobile=True,has_touch=True,service_workers='block');c.route('https://fonts.googleapis.com/**',lambda r:r.fulfill(status=200,body='',content_type='text/css'));q=c.new_page();q.on('pageerror',lambda e:(errors.append(str(e)),print(e,flush=True)));q.goto(URL);q.wait_for_function("document.getElementById('loading').hidden",timeout=70000);q.locator('#study-open').tap()
  for modo in ['estadisticas','transferencias','importador','notas','oclusion','practico','herramientas','fisiologia']:
-  q.locator('[data-mode="'+modo+'"]').tap();q.wait_for_timeout(100);assert q.locator('#study-content').inner_text();assert q.evaluate('document.documentElement.scrollWidth<=innerWidth');assert q.evaluate('document.querySelector("main").scrollTop===0')
+  abrir_modo(q,modo);q.wait_for_timeout(100);assert q.locator('#study-content').inner_text();assert q.evaluate('document.documentElement.scrollWidth<=innerWidth');assert q.evaluate('document.querySelector("main").scrollTop===0')
   if modo=='practico':
    q.get_by_role('button',name='Cerrar panel Estudiar').tap();q.locator('#study-open').tap();assert q.locator('#respuesta-practica').count();q.get_by_role('button',name='Terminar examen práctico',exact=True).tap()
  q.screenshot(path=str(out/'movil-funciones.png'));print('Ocho modos nuevos en móvil, cierre/reapertura del práctico y ancho: OK',flush=True);c.close();b.close()

diff --git a/pruebas/modos-nuevos.py b/pruebas/modos-nuevos.py
@@ -1,3 +1,4 @@
+from navegacion import abrir_modo
 import os
 URL=os.environ.get("ATLAS_TEST_URL","http://127.0.0.1:8000/atlas/")
 from pathlib import Path
@@ -9,7 +10,7 @@ with sync_playwright() as p:
  c=b.new_context(viewport={'width':1440,'height':1000},service_workers='block');c.route('https://fonts.googleapis.com/**',lambda r:r.fulfill(status=200,body='',content_type='text/css'));c.route('**/favicon.ico',lambda r:r.fulfill(status=204,body=''))
  q=c.new_page();q.on('pageerror',lambda e:(errores.append(str(e)),print('ERROR',e,flush=True)));q.on('console',lambda m:print('CONSOLE',m.text,flush=True) if m.type=='error' else None)
  q.goto(URL);q.wait_for_function("document.getElementById('loading').hidden",timeout=70000);q.locator('#study-open').click()
- def modo(id):q.locator('[data-mode="'+id+'"]').click();q.wait_for_timeout(150)
+ def modo(id):abrir_modo(q,id);q.wait_for_timeout(150)
  def ok(t):pasos.append(t);print(t,flush=True)
  modo('flash');q.locator('#algoritmo').select_option('sm2');q.get_by_role('button',name='Estudiar tarjetas pendientes',exact=True).click();q.locator('#study-flash').click();q.locator('#sm2-calidad').select_option('5');q.locator('#flash-yes').click();q.get_by_role('button',name='Terminar',exact=True).click();assert q.evaluate("Object.values(JSON.parse(localStorage.getItem('atlas-urinario-estudio-v1')).tarjetas).some(t=>t.sm2?.intervalo===1)");ok('SM-2 guarda sin perder Leitner')
  modo('estadisticas');assert q.locator('#study-content svg').count()==1;q.locator('#meta-diaria').fill('12');q.locator('#meta-diaria').dispatch_event('change');ok('Estadísticas y meta persistida')

diff --git a/pruebas/navegacion.py b/pruebas/navegacion.py
@@ -1,0 +1,5 @@
+"""Acceso a actividades a través del menú por apartados."""
+def abrir_modo(pagina, modo):
+ area='exploracion' if modo in ['ruta','fisiologia','comparar','herramientas'] else 'progreso' if modo in ['estadisticas','errores','auto','notas','importador','transferencias'] else 'estudio'
+ pagina.locator('[data-area="'+area+'"]').click()
+ pagina.locator('[data-mode="'+modo+'"]').click()
